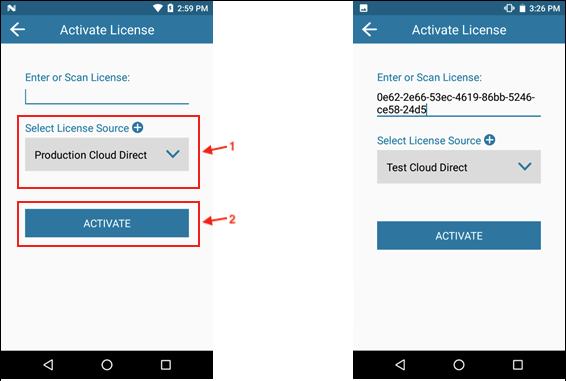
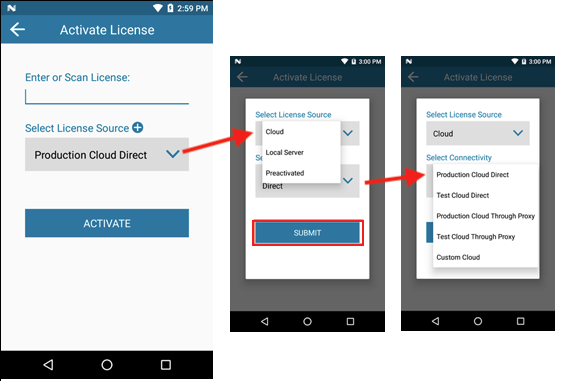
[TUT-25439] EB 2.0 licensing guide uddates

diff --git a/src/enterprise-browser/2-0/guide/licensing/index.md b/src/enterprise-browser/2-0/guide/licensing/index.md
@@ -5,10 +5,11 @@ product: Enterprise Browser
 layout: guide.html
 ---
 
-> **Note: The Enterprise Browser 2.0 licensing process is all new**. 
-
 ## Overview 
 Enterprise Browser is free to download and use for evaluation purposes. Commercial deployment to devices requires an End-User License issued by Zebra Technologies for each device. Licenses are available for individual devices and for site deployments of 50 devices or more. Both license types permit an unlimited number of Enterprise Browser-based apps to run on the device(s). This guide explains the process of obtaining an Enterprise Browser license for commercial use and applying the license to individual devices and as part of a mass-deployment.
+
+
+> **Note: The licensing process for Enterprise Browser 2.0 (and higher) is all new**. Apps running on EB versions prior to v2.0 must be updated using new licensing procedures. 
 
 -----
 
@@ -31,48 +32,68 @@ _Perpetually licensed version_
 ### Requirements
 * Zebra device with License Manager app (pre-installed on supported devices)
 * Internet connection (for online license activation)
-* For cloud-based licensing, any **ONE** of the following: 
- * Back Office Server, proxy server or a custom relay server
-* Or, a Windows or Linux server for on-premise licensing 
+* Linux or Windows server (for on-premise licensing) 
 
 -----
 
 ## Manual Licensing
-This section describes the process for activating a license on a single device. To remotely activate multiple licenses for an entire organization, please refer to the [mass-deployment section](#massdeployment). 
+This section describes the process for activating a license on a single device. To remotely activate multiple licenses for an entire organization, see [mass-deployment](#massdeployment). 
+
+#### License Source Types
+* **Cloud-based server** (internet connection required)
+ * Production Cloud Direct
+ * Test Cloud Direct
+ * Production Cloud Through Proxy
+ * Test Cloud Through Proxy
+* **Local (on-premise) Server**
+ * Linux
+ * Windows
+* **Preactivated**  
+
+Cloud-based licensing sources include "Production Cloud Direct" and "Test Cloud Direct" servers are the default types. Select accordingly if the organization is using a proxy. Select "Local Server" (on-premise server) based license sources using the steps mentioned here. When a new license source is added under proxy server, custom server and local server options, the name of the server will be available as an option in the Select License Source drop down list.
+
+b. Enter or Scan License: A valid activation (rights) id of the license has to be entered in this field either by manually entering the id or by scanning the license.
+
+
 
 **To activate a device license**:  
 
-1. Locate and launch the License Manager app:
+**IMPORTANT**: Before beginning, confirm that the date is set correctly on the device to ensure proper licensing behavior.
+
+1. Locate and **launch the License Manager** app:
 <img alt="" style="height:350px" src="eb20_licensemgrapp.png"/>
 <br>
-2. Click the floating action button on the splash screen:
+2. The License Manager splash screen appears. **Tap the floating action button**:
 <img alt="" style="height:350px" src="license_manager_splash.png"/>
 <br>
-3. The Activation screen appears (as below). **Tap to select the License Source** from the drop-down list. <br>
-Then tap ACTIVATE.
+3. When the Activation screen appears: 
+ 1. **Leave license key field blank** (for now). 
+ 2. **Tap License Source to select license type and server connectivity**. 
+ 3. **Tap SUBMIT** button.<br> 
+ If prompted to set device clock, **Tap "Continue"**. The Activation screen reappears. 
 <img alt="" style="height:350px" src="5.png"/>
 <br>
+4. **Enter or scan the license key for the device**. <br>
+Then **Tap Activate**. 
+<img alt="" style="height:350px" src="6.png"/>
+<br>
+
+A screen similar to the image below appears to indicate successful license activation. 
+<img alt="" style="height:350px" src="7.png"/>
+<br>
+
+#### The device is now licensed. 
+
+-----
 
 ## `TO BE REVISED`
 
-
-Note: Choose the type of the license source under Select License Source option prior to typing any data in the license field above.
 
   a. Select License Source: A valid License Source has to be chosen against which the license has to be activated.
 
 The user can choose from the below license source types from the Select  License Source drop down list for activating a license online.
 
-License Source Types:
 
-i) Cloud
-
-ii) Local Server
-
-The user has the provision to choose:
-
-The existing default cloud license sources (Production Cloud Direct/Test Cloud Direct servers which are the default Back-Office Servers) with Cloud as the License Source type using the steps mentioned here
-Add new Proxy servers (Production Cloud Through Proxy/Test Cloud Through Proxy servers), Custom Cloud server (Relay server) and LocalServer (On-Premise Server) based license sources using the steps mentioned here. When a new license source is added under proxy server, custom server and local server options, the name of the server will be available as an option in the Select License Source drop down list.
-  b. Enter or Scan License: A valid activation (rights) id of the license has to be entered in this field either by manually entering the id or by scanning the license.
 
 4. After selecting a valid License Source, click on the Submit button.
 
